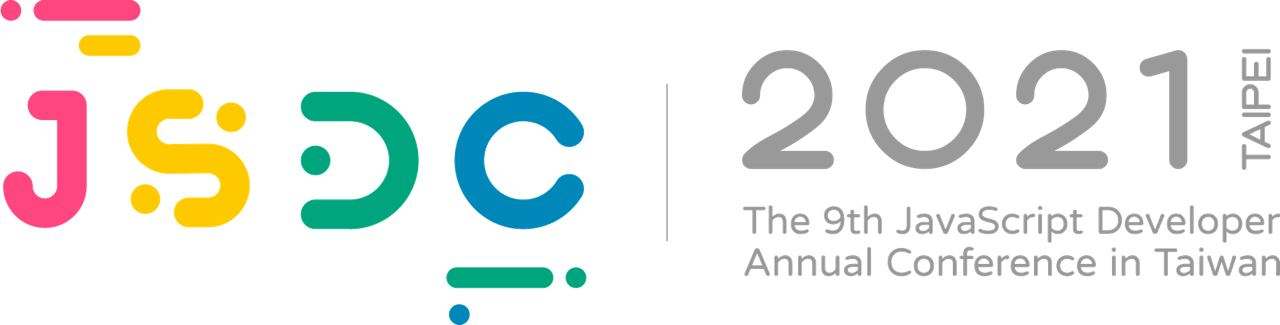
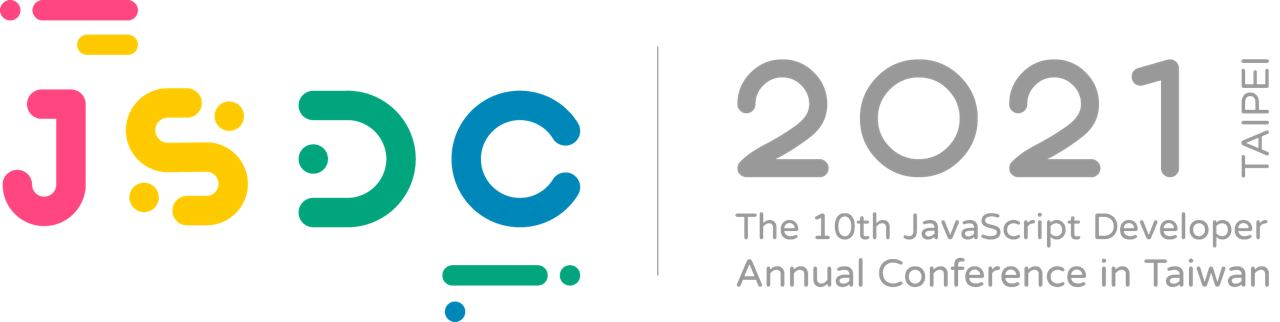
update 2021 photos

diff --git a/index.html b/index.html
@@ -1,4 +1,4 @@
-<!DOCTYPE html><html lang="zh-TW"><head><meta charset="utf-8"><title>JSDC - JavaScript Developer Conferenece Taiwan</title><meta name="viewport" content="width=device-width"><link rel="stylesheet" href="bower_components/normalize.css/normalize.css"><link rel="stylesheet" href="style.css?tmp=1632026975242"></head><body><div class="wrapper"><div class="topbar"><div class="container"><h1 class="topbar-sitename"><a href="/">JSDC</a></h1><nav class="topbar-nav"><ul class="topbar-menu"><li class="topbar-menu-item"><a href="/">HOME</a></li><li class="topbar-menu-item"><a href="http://blog.jsdc.tw/" target="_blank">BLOG</a></li><li class="topbar-menu-item"><a href="/sponsoring.html">SPONSORING</a></li></ul></nav><a class="topbar-menu-toggle-btn"></a></div></div><main role="main" class="main"><section class="section section-cover"><h2 class="section-cover-title">JSDC 2021 Coming Soon</h2><div class="section-cover-logo"><a href="https://2021.jsdc.tw/" target="_blank"><img src="/images/jsdc2021.jpeg?tmp=1632026975242" class="left"></a><img src="/images/jsdc-2020.png?tmp=1632026975242" style="width:115px;" class="right"></div><div class="section-cover-logo"><a href="https://2020.jsdc.tw/" target="_blank"><img src="/images/jsdc2020.png?tmp=1632026975242" class="left"></a><img src="/images/jsdc-2020.png?tmp=1632026975242" style="width:115px;" class="right"></div><div class="section-cover-logo"><a href="https://2019.jsdc.tw/" target="_blank"><img src="/images/jsdc2019.png?tmp=1632026975242" class="left"></a><img src="/images/jsdc-2019.png?tmp=1632026975242" style="width:115px;" class="right"></div><div class="section-cover-logo"><a href="http://2018.jsdc.tw/" target="_blank"><img src="/images/jsdc2018.png?tmp=1632026975242" class="left"></a><img src="/images/jsdc-2018.png?tmp=1632026975242" style="width:115px;" class="right"></div><div class="section-cover-logo"><a href="http://2017.jsdc.tw/" target="_blank"><img src="/images/jsdc2017.png?tmp=1632026975242" style="height:67px;" class="left"></a><img src="/images/jsdc-2017.png?tmp=1632026975242" class="right"></div><div class="section-cover-logo"><a href="http://2016.jsdc.tw/" target="_blank"><img src="/images/jsdc2016.png?tmp=1632026975242" class="left"></a><img src="/images/jsdc-2016.png?tmp=1632026975242" class="right"></div><div class="section-cover-logo"><a href="http://2015.jsdc.tw/" target="_blank"><img src="/images/jsdc2015.png?tmp=1632026975242" class="left"></a><img src="/images/jsdc-2015.png?tmp=1632026975242" class="right"></div><div class="section-cover-logo"><a href="http://2014.jsdc.tw/" target="_blank"><img src="/images/activity.jpg?tmp=1632026975242" class="left"></a><img src="/images/jsdc-2014.png?tmp=1632026975242" class="right"></div><div class="section-cover-logo"><img src="/images/jsdc2013.png?tmp=1632026975242" class="left"><img src="/images/jsdc-2013.png?tmp=1632026975242" class="right"></div><div class="section-cover-logo"><img src="/images/jsdc2012.png?tmp=1632026975242" class="left"><img src="/images/jsdc-2012.png?tmp=1632026975242" class="right"></div></section></main></div><script>(function(i,s,o,g,r,a,m){i['GoogleAnalyticsObject']=r;i[r]=i[r]||function(){
+<!DOCTYPE html><html lang="zh-TW"><head><meta charset="utf-8"><title>JSDC - JavaScript Developer Conferenece Taiwan</title><meta name="viewport" content="width=device-width"><link rel="stylesheet" href="bower_components/normalize.css/normalize.css"><link rel="stylesheet" href="style.css?tmp=1632053855884"></head><body><div class="wrapper"><div class="topbar"><div class="container"><h1 class="topbar-sitename"><a href="/">JSDC</a></h1><nav class="topbar-nav"><ul class="topbar-menu"><li class="topbar-menu-item"><a href="/">HOME</a></li><li class="topbar-menu-item"><a href="http://blog.jsdc.tw/" target="_blank">BLOG</a></li><li class="topbar-menu-item"><a href="/sponsoring.html">SPONSORING</a></li></ul></nav><a class="topbar-menu-toggle-btn"></a></div></div><main role="main" class="main"><section class="section section-cover"><h2 class="section-cover-title">JSDC 2021 Coming Soon</h2><div class="section-cover-logo"><a href="https://2021.jsdc.tw/" target="_blank"><img src="/images/jsdc2021.jpeg?tmp=1632053855884" class="left"></a><img src="/images/jsdc-2021.jpeg?tmp=1632053855884" style="width:115px;" class="right"></div><div class="section-cover-logo"><a href="https://2020.jsdc.tw/" target="_blank"><img src="/images/jsdc2020.png?tmp=1632053855884" class="left"></a><img src="/images/jsdc-2020.png?tmp=1632053855884" style="width:115px;" class="right"></div><div class="section-cover-logo"><a href="https://2019.jsdc.tw/" target="_blank"><img src="/images/jsdc2019.png?tmp=1632053855884" class="left"></a><img src="/images/jsdc-2019.png?tmp=1632053855884" style="width:115px;" class="right"></div><div class="section-cover-logo"><a href="http://2018.jsdc.tw/" target="_blank"><img src="/images/jsdc2018.png?tmp=1632053855884" class="left"></a><img src="/images/jsdc-2018.png?tmp=1632053855884" style="width:115px;" class="right"></div><div class="section-cover-logo"><a href="http://2017.jsdc.tw/" target="_blank"><img src="/images/jsdc2017.png?tmp=1632053855884" style="height:67px;" class="left"></a><img src="/images/jsdc-2017.png?tmp=1632053855884" class="right"></div><div class="section-cover-logo"><a href="http://2016.jsdc.tw/" target="_blank"><img src="/images/jsdc2016.png?tmp=1632053855884" class="left"></a><img src="/images/jsdc-2016.png?tmp=1632053855884" class="right"></div><div class="section-cover-logo"><a href="http://2015.jsdc.tw/" target="_blank"><img src="/images/jsdc2015.png?tmp=1632053855884" class="left"></a><img src="/images/jsdc-2015.png?tmp=1632053855884" class="right"></div><div class="section-cover-logo"><a href="http://2014.jsdc.tw/" target="_blank"><img src="/images/activity.jpg?tmp=1632053855884" class="left"></a><img src="/images/jsdc-2014.png?tmp=1632053855884" class="right"></div><div class="section-cover-logo"><img src="/images/jsdc2013.png?tmp=1632053855884" class="left"><img src="/images/jsdc-2013.png?tmp=1632053855884" class="right"></div><div class="section-cover-logo"><img src="/images/jsdc2012.png?tmp=1632053855884" class="left"><img src="/images/jsdc-2012.png?tmp=1632053855884" class="right"></div></section></main></div><script>(function(i,s,o,g,r,a,m){i['GoogleAnalyticsObject']=r;i[r]=i[r]||function(){
 (i[r].q=i[r].q||[]).push(arguments)},i[r].l=1*new Date();a=s.createElement(o),
 m=s.getElementsByTagName(o)[0];a.async=1;a.src=g;m.parentNode.insertBefore(a,m)
 })(window,document,'script','//www.google-analytics.com/analytics.js','ga');

diff --git a/sponsoring.html b/sponsoring.html
@@ -1,4 +1,4 @@
-<!DOCTYPE html><html lang="zh-TW"><head><meta charset="utf-8"><title>JSDC - JavaScript Developer Conferenece Taiwan</title><meta name="viewport" content="width=device-width"><link rel="stylesheet" href="bower_components/normalize.css/normalize.css"><link rel="stylesheet" href="style.css?tmp=1632026975266"></head><body><div class="wrapper"><div class="topbar"><div class="container"><h1 class="topbar-sitename"><a href="/">JSDC</a></h1><nav class="topbar-nav"><ul class="topbar-menu"><li class="topbar-menu-item"><a href="/">HOME</a></li><li class="topbar-menu-item"><a href="http://blog.jsdc.tw/" target="_blank">BLOG</a></li><li class="topbar-menu-item"><a href="/sponsoring.html">SPONSORING</a></li></ul></nav><a class="topbar-menu-toggle-btn"></a></div></div><main role="main" class="main sponsoring"><div class="container"><div class="text"><h1>Sponsoring</h1><p>We have a wide variety of sponsoring opportunities available.
+<!DOCTYPE html><html lang="zh-TW"><head><meta charset="utf-8"><title>JSDC - JavaScript Developer Conferenece Taiwan</title><meta name="viewport" content="width=device-width"><link rel="stylesheet" href="bower_components/normalize.css/normalize.css"><link rel="stylesheet" href="style.css?tmp=1632053855907"></head><body><div class="wrapper"><div class="topbar"><div class="container"><h1 class="topbar-sitename"><a href="/">JSDC</a></h1><nav class="topbar-nav"><ul class="topbar-menu"><li class="topbar-menu-item"><a href="/">HOME</a></li><li class="topbar-menu-item"><a href="http://blog.jsdc.tw/" target="_blank">BLOG</a></li><li class="topbar-menu-item"><a href="/sponsoring.html">SPONSORING</a></li></ul></nav><a class="topbar-menu-toggle-btn"></a></div></div><main role="main" class="main sponsoring"><div class="container"><div class="text"><h1>Sponsoring</h1><p>We have a wide variety of sponsoring opportunities available.
 They usually sell out quickly :) Talk to us:<a href="mailto:hq@jsdc.tw">hq@jsdc.tw</a></p></div><a href="mailto:hq@jsdc.tw" class="img-link"><img src="/images/sponsoring.jpg"></a></div></main></div><script>(function(i,s,o,g,r,a,m){i['GoogleAnalyticsObject']=r;i[r]=i[r]||function(){
 (i[r].q=i[r].q||[]).push(arguments)},i[r].l=1*new Date();a=s.createElement(o),
 m=s.getElementsByTagName(o)[0];a.async=1;a.src=g;m.parentNode.insertBefore(a,m)
